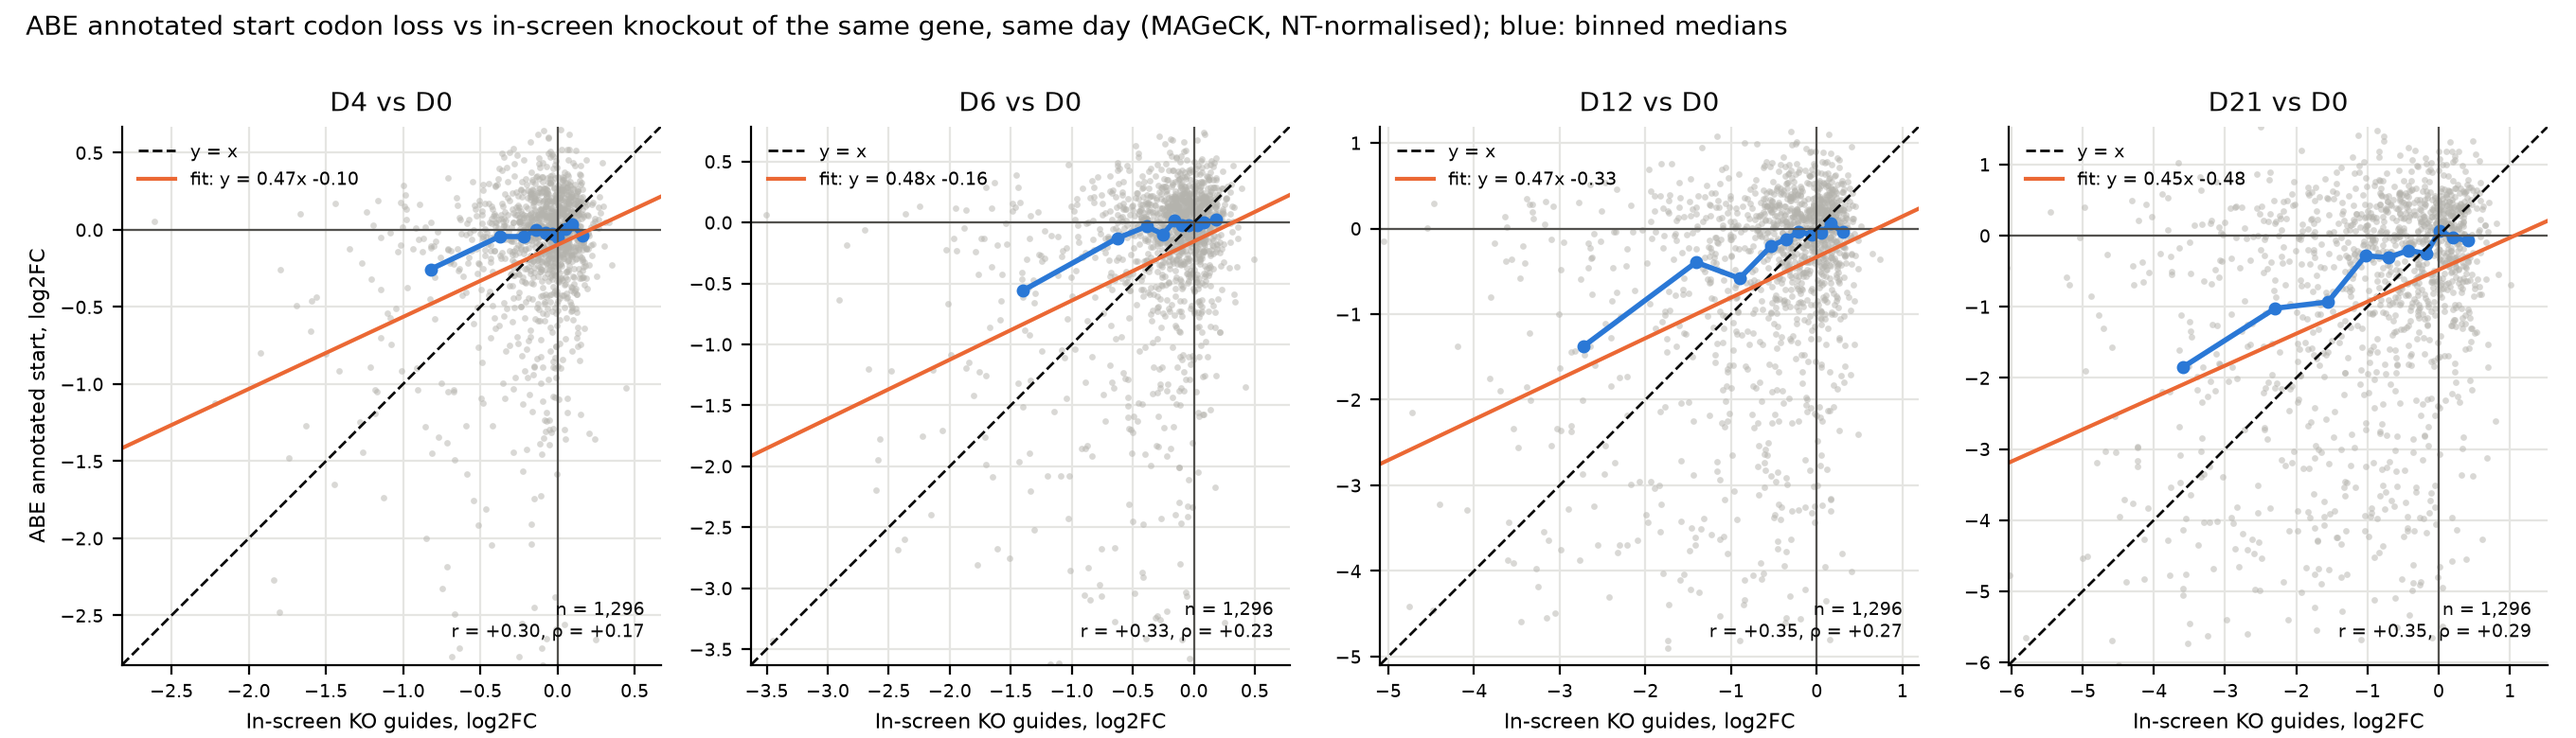
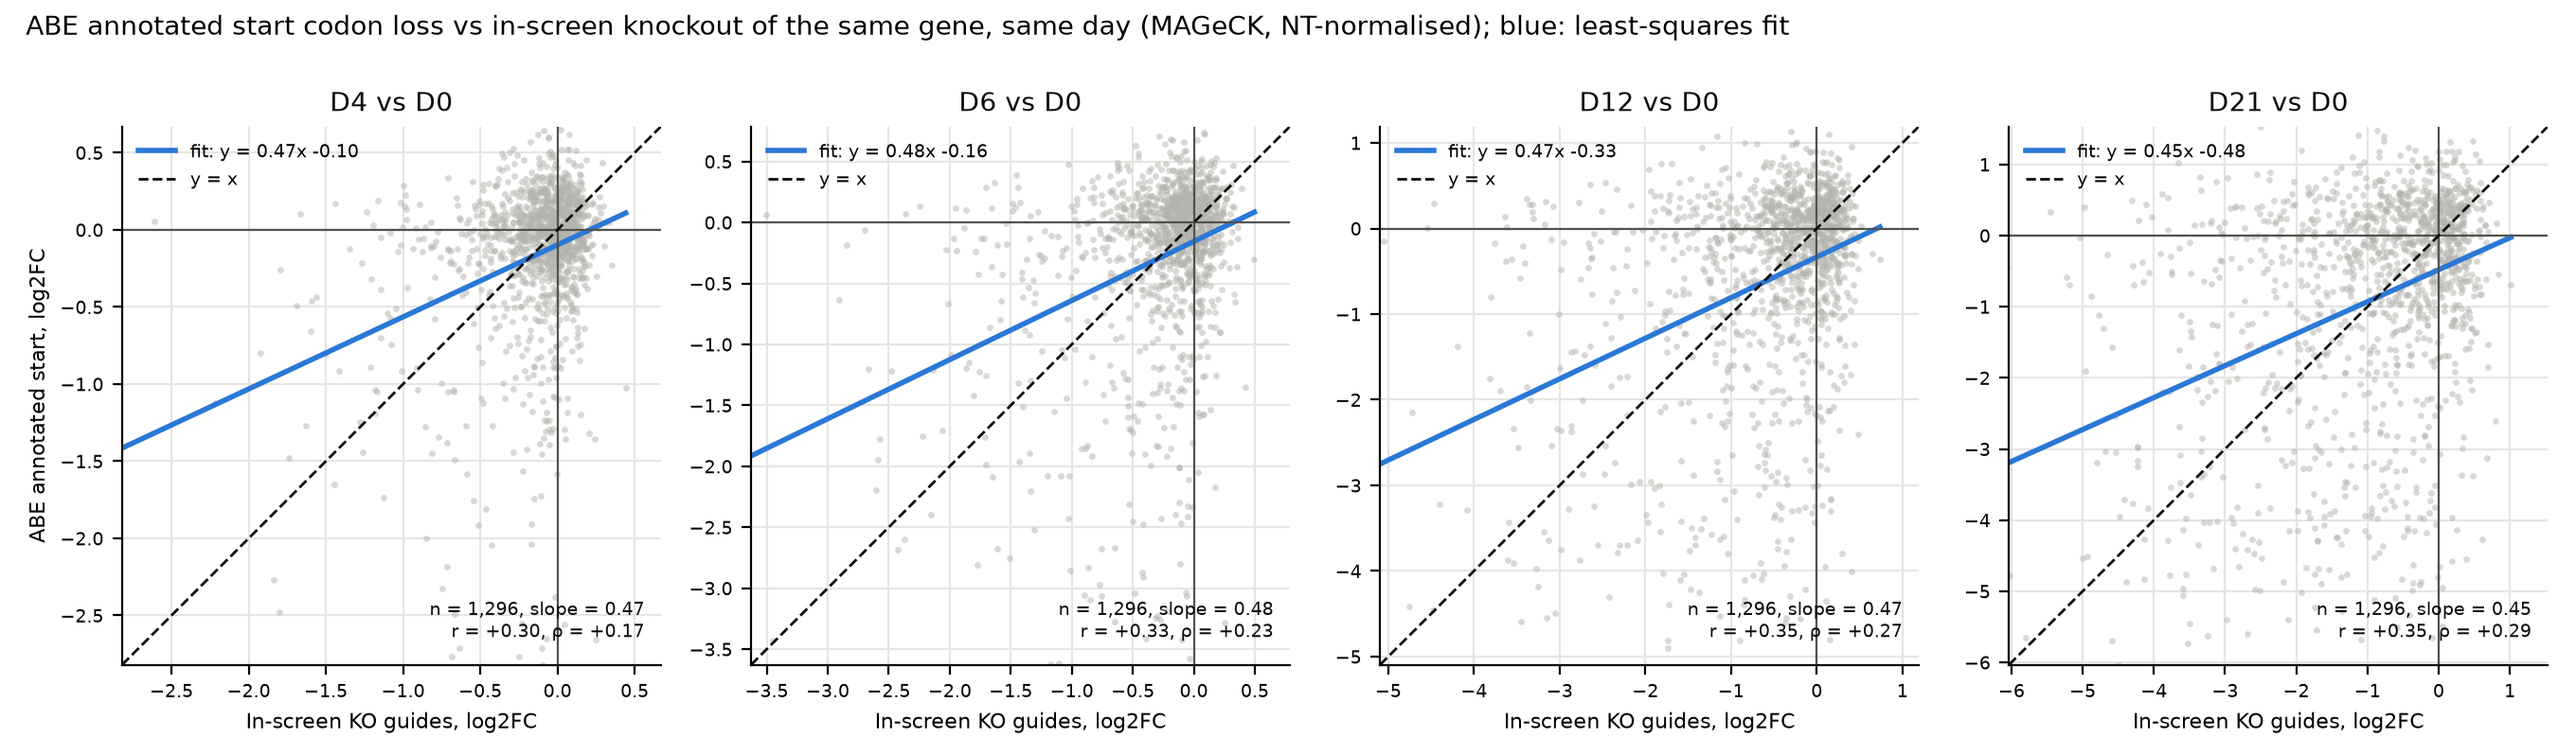
Add stop codon correlations; fit lines and equal axes on correlation plots
- abe_stop_vs_ko_lfc.png and abe_stop_vs_inscreen_ko_lfc.png: stop codon
  loss vs CRISPR KO and vs the in-screen KO of the same gene, same day
- Least-squares fit line (slope in the panel stats) replaces binned medians
- Equal axes on every panel so x and y share the same log2FC scale

Claude-Session: https://claude.ai/code/session_01HzGJaVfpNUqr2upFx4zRkJ

diff --git a/scripts/plot/plot_correlations.py b/scripts/plot/plot_correlations.py
@@ -9,7 +9,10 @@ inscreen_ko_vs_crispr_ko_lfc.png  the ABE screen's own gene knockout guides (MAG
 
 abe_vs_inscreen_ko_lfc.png  ABE annotated start vs the in-screen KO guides of
                       the same gene on the same day (D4, D6, D12, D21; same samples and MAGeCK
-                      normalisation), with the y = x line and a least-squares fit
+                      normalisation), with the y = x line
+
+abe_stop_vs_ko_lfc.png, abe_stop_vs_inscreen_ko_lfc.png  the same two comparisons for ABE stop
+                      codon loss (all efficient stop guides per gene)
 
 Run scripts/abe_mageck_analysis.py first; this reads results/abe_mageck/.
 """
@@ -26,7 +29,7 @@ from be_screen_analysis.correlations import (
     s1_gene_dropout,
     s5_gene_dropout,
 )
-from be_screen_analysis.plotting import BLUE, GRAY, INK, MUTED, ORANGE, style
+from be_screen_analysis.plotting import BLUE, GRAY, INK, MUTED, style
 
 ROOT = Path(__file__).resolve().parents[2]
 MAGECK_DIR = ROOT / "results" / "abe_mageck"
@@ -34,34 +37,48 @@ S1_DIR = ROOT / "data" / "shakeoff_data" / "table_s1"
 S5_DIR = ROOT / "data" / "shakeoff_data" / "table_s5"
 OUT_DIR = ROOT / "figures" / "correlations"
 
-N_BINS = 10
 
+def _panel(
+    ax: plt.Axes, x: pd.Series, y: pd.Series, stats_right: bool = False
+) -> tuple[float, float]:
+    """Scatter, least-squares fit and stats on equal axes (same log2FC scale on x and y).
 
-def _panel(ax: plt.Axes, x: pd.Series, y: pd.Series, stats_right: bool = False) -> None:
+    Returns the shared axis limits.
+    """
     d = pd.concat([x, y], axis=1, join="inner").dropna()
     xs, ys = d.iloc[:, 0], d.iloc[:, 1]
     ax.scatter(xs, ys, s=6, color=GRAY, alpha=0.5, linewidths=0)
-    # binned medians (equal-count bins on x) show the shape of the relationship
-    bins = pd.qcut(xs, N_BINS, duplicates="drop")
-    med = d.groupby(bins, observed=True).median()
-    ax.plot(med.iloc[:, 0], med.iloc[:, 1], color=BLUE, linewidth=2, marker="o", markersize=4)
+    slope, icept = np.polyfit(xs, ys, 1)  # least-squares fit of y on x
+    fit_x = np.array([xs.min(), xs.max()])
+    ax.plot(
+        fit_x,
+        slope * fit_x + icept,
+        color=BLUE,
+        linewidth=2,
+        label=f"fit: y = {slope:.2f}x {icept:+.2f}",
+    )
     r, rho = xs.corr(ys), xs.rank().corr(ys.rank())  # Spearman = Pearson on ranks
     ax.text(
         0.97 if stats_right else 0.03,
         0.04,
-        f"n = {len(d):,}\nr = {r:+.2f}, ρ = {rho:+.2f}",
+        f"n = {len(d):,}, slope = {slope:.2f}\nr = {r:+.2f}, ρ = {rho:+.2f}",
         transform=ax.transAxes,
         fontsize=7,
         color=INK,
         va="bottom",
         ha="right" if stats_right else "left",
     )
-    lo, hi = np.nanpercentile(xs, [0.5, 99.5])
+    # same limits and scale on both axes, covering the central 99% of x and y together
+    lo, hi = np.nanpercentile(np.r_[xs, ys], [0.5, 99.5])
     pad = 0.05 * (hi - lo)
-    ax.set_xlim(lo - pad, hi + pad)
+    lim = (lo - pad, hi + pad)
+    ax.set_xlim(lim)
+    ax.set_ylim(lim)
+    ax.set_aspect("equal")
     ax.axhline(0, color=MUTED, linewidth=0.8)
     ax.axvline(0, color=MUTED, linewidth=0.8)
     style(ax)
+    return lim
 
 
 def grid(y: pd.DataFrame, ko: pd.DataFrame, ylabel: str, title: str, name: str) -> Path:
@@ -70,10 +87,8 @@ def grid(y: pd.DataFrame, ko: pd.DataFrame, ylabel: str, title: str, name: str) 
     fig, axes = plt.subplots(
         len(rows),
         len(cols),
-        figsize=(3 * len(cols), 2.8 * len(rows)),
+        figsize=(3 * len(cols), 3.1 * len(rows)),
         dpi=200,
-        sharex="col",
-        sharey="row",
     )
     for i, row in enumerate(rows):
         for j, col in enumerate(cols):
@@ -87,7 +102,7 @@ def grid(y: pd.DataFrame, ko: pd.DataFrame, ylabel: str, title: str, name: str) 
             if j == 0:
                 ax.set_ylabel(ylabel.format(day=row.split()[-1]), fontsize=8)
             ax.tick_params(labelsize=7)
-    fig.suptitle(f"{title}; blue: binned medians", x=0.01, ha="left", fontsize=10)
+    fig.suptitle(f"{title}; blue: least-squares fit", x=0.01, ha="left", fontsize=10)
     fig.tight_layout()
     out = OUT_DIR / name
     fig.savefig(out)
@@ -95,45 +110,28 @@ def grid(y: pd.DataFrame, ko: pd.DataFrame, ylabel: str, title: str, name: str) 
     return out
 
 
-def matched_days(abe: pd.DataFrame, ko: pd.DataFrame) -> Path:
-    """ABE start vs in-screen KO per gene, one panel per shared day, on equal axes."""
+def matched_days(abe: pd.DataFrame, ko: pd.DataFrame, label: str, name: str) -> Path:
+    """ABE ``label`` (e.g. "annotated start") vs in-screen KO per gene, one panel per day."""
     days = [c.split()[-1] for c in abe.columns]
     fig, axes = plt.subplots(1, len(days), figsize=(3.4 * len(days), 3.9), dpi=200)
     for ax, day in zip(axes, days):
         x, y = ko[f"In-screen KO {day}"], abe[f"ABE {day}"]
-        _panel(ax, x, y, stats_right=True)  # lower left is crossed by y = x
-        d = pd.concat([x, y], axis=1).dropna()
-        xs, ys = d.iloc[:, 0], d.iloc[:, 1]
-        # equal axes so the y = x line is a true 1:1 reference
-        lo, hi = np.nanpercentile(np.r_[xs, ys], [0.5, 99.5])
-        pad = 0.05 * (hi - lo)
-        lim = (lo - pad, hi + pad)
-        ax.set_xlim(lim)
-        ax.set_ylim(lim)
-        ax.set_aspect("equal")
+        lim = _panel(ax, x, y, stats_right=True)  # lower left is crossed by y = x
         ax.plot(lim, lim, color=INK, linestyle="--", linewidth=1, label="y = x")
-        slope, icept = np.polyfit(xs, ys, 1)
-        ax.plot(
-            lim,
-            slope * np.array(lim) + icept,
-            color=ORANGE,
-            linewidth=1.5,
-            label=f"fit: y = {slope:.2f}x {icept:+.2f}",
-        )
         ax.legend(frameon=False, fontsize=7, loc="upper left")
         ax.set_title(f"{day} vs D0", fontsize=10, color=INK)
         ax.set_xlabel("In-screen KO guides, log2FC", fontsize=8)
         ax.tick_params(labelsize=7)
-    axes[0].set_ylabel("ABE annotated start, log2FC", fontsize=8)
+    axes[0].set_ylabel(f"ABE {label}, log2FC", fontsize=8)
     fig.suptitle(
-        "ABE annotated start codon loss vs in-screen knockout of the same gene, same day "
-        "(MAGeCK, NT-normalised); blue: binned medians",
+        f"ABE {label} codon loss vs in-screen knockout of the same gene, same day "
+        "(MAGeCK, NT-normalised); blue: least-squares fit",
         x=0.01,
         ha="left",
         fontsize=10,
     )
     fig.tight_layout()
-    out = OUT_DIR / "abe_vs_inscreen_ko_lfc.png"
+    out = OUT_DIR / name
     fig.savefig(out)
     plt.close(fig)
     return out
@@ -166,7 +164,19 @@ def main() -> None:
             "inscreen_ko_vs_crispr_ko_lfc.png",
         )
     )
-    print(matched_days(abe, inscreen))
+    print(matched_days(abe, inscreen, "annotated start", "abe_vs_inscreen_ko_lfc.png"))
+    stop = abe_gene_lfc(MAGECK_DIR, "stop")
+    print(
+        grid(
+            stop,
+            ko,
+            "ABE stop codon\nlog2FC {day} vs D0",
+            "ABE stop codon loss (MAGeCK, NT-normalised) vs CRISPR knockout dropout per gene "
+            "(HeLa)",
+            "abe_stop_vs_ko_lfc.png",
+        )
+    )
+    print(matched_days(stop, inscreen, "stop", "abe_stop_vs_inscreen_ko_lfc.png"))
 
 
 if __name__ == "__main__":
